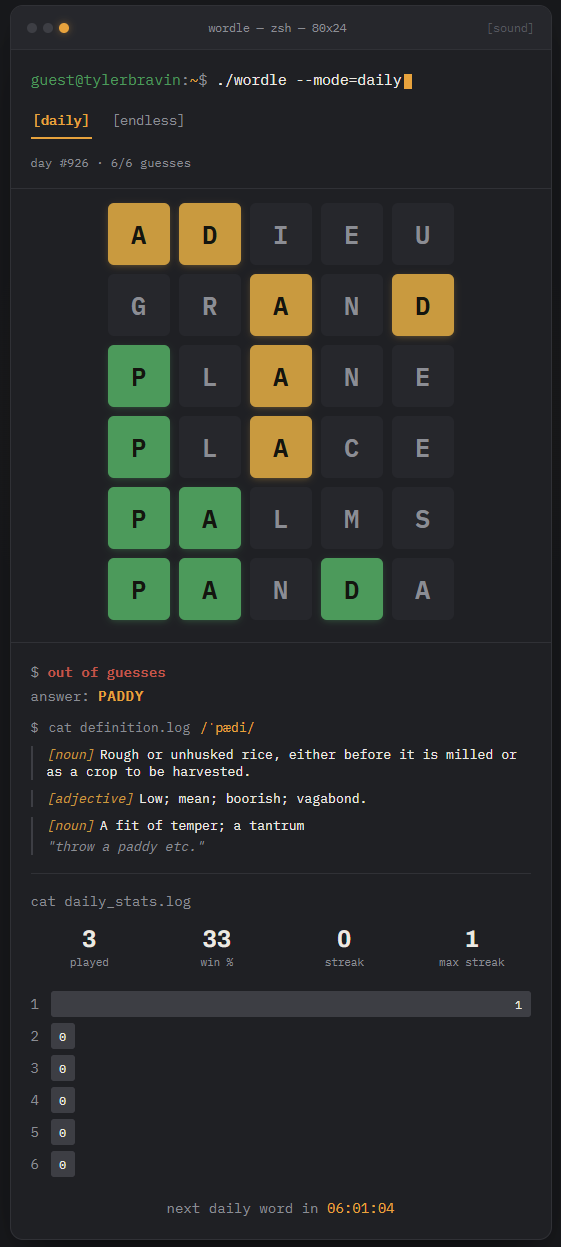
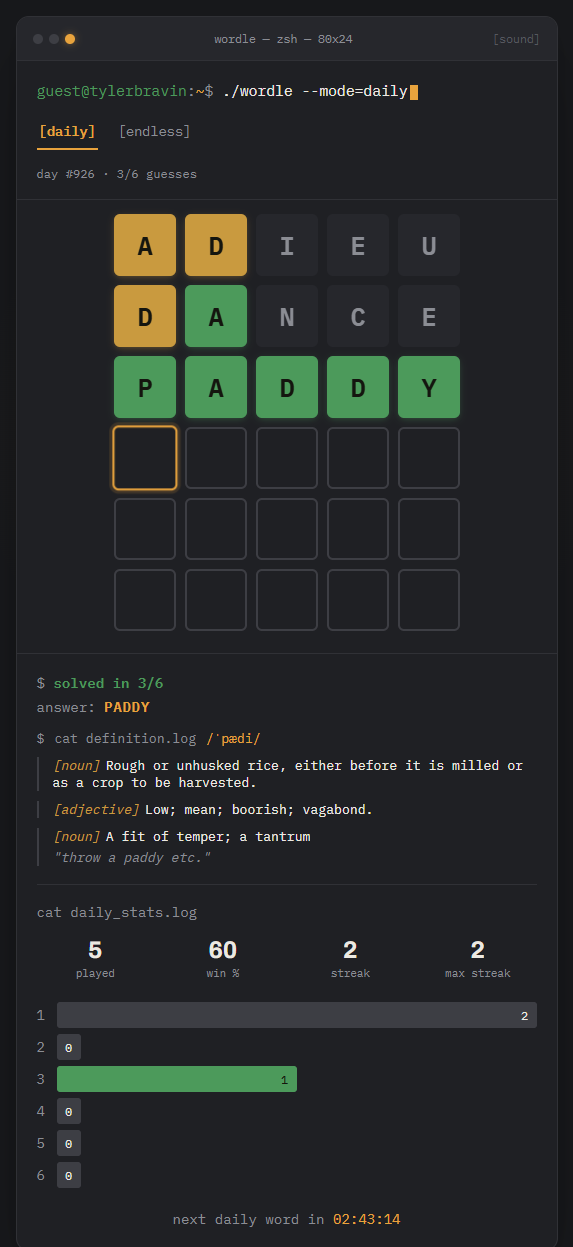
docs: swap README screenshots, cropped to just the terminal window

diff --git a/README.md b/README.md
@@ -15,7 +15,7 @@ A Wordle clone with a **Java/Spring Boot** backend and a **React/TypeScript** fr
 
 <br>
 
-<img src="./assets/daily-mode.png" alt="Daily mode, finished game with the live countdown to the next word" width="49%" style="vertical-align: top;"> <img src="./assets/endless-mode.png" alt="Endless mode, finished game with word definition and stats" width="49%" style="vertical-align: top;">
+<img src="./assets/daily-mode.png" alt="Daily mode, solved in 3/6 with definition lookup, stats, and the live countdown to the next word" width="49%" style="vertical-align: top;"> <img src="./assets/endless-mode.png" alt="Endless mode, round 19 with a 21-game win streak, definition lookup, and guess distribution" width="49%" style="vertical-align: top;">
 
 ---
 